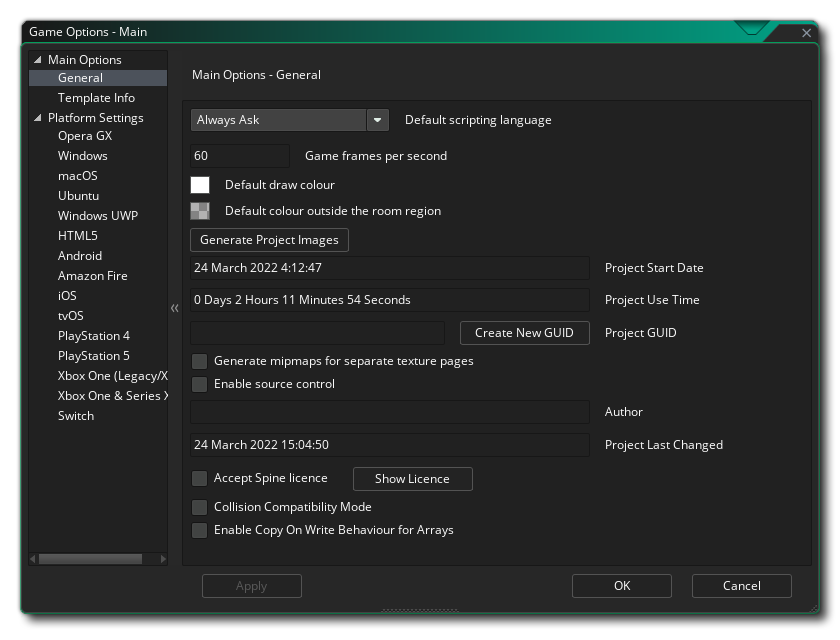
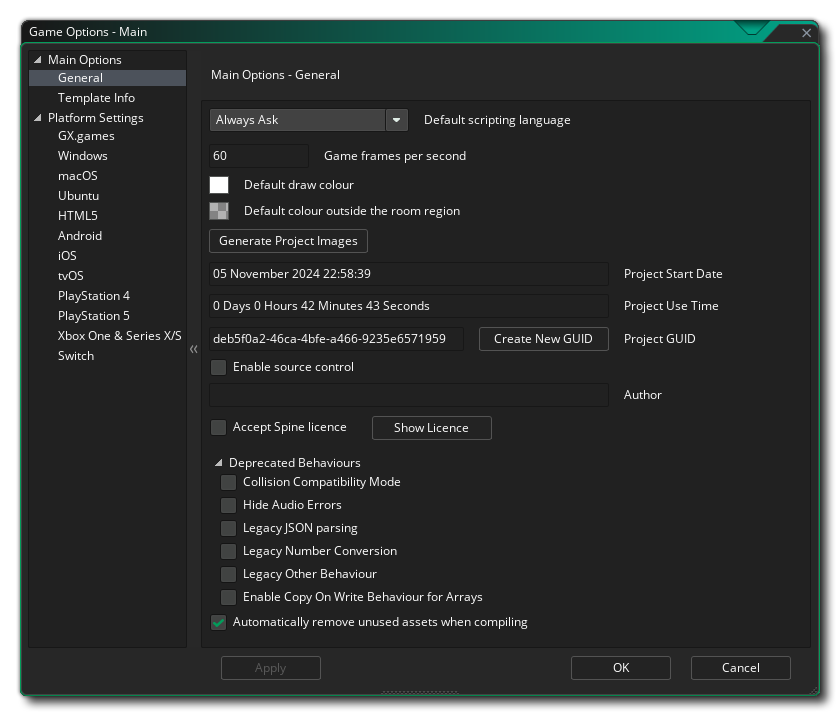
docs(feature): Remove the now redundant "Generate mipmaps for separate texture pages" Game Option YoYoGames/GameMaker-Bugs#7045
* Game Options page: updated the screenshot and removed the setting
* Mipmapping page: removed the reference to the setting in the first paragraph
* Texture Groups page: removed the info on the setting under "Generate Mipmaps"

diff --git a/Manual/contents/Settings/Texture_Groups.htm b/Manual/contents/Settings/Texture_Groups.htm
@@ -35,7 +35,7 @@
   <p>Even though the assets are shown in the list as being separate, all sprites, tile sets and fonts will be added to the same texture page, as long as there is room on that texture page. If the texture page is full, <span data-keyref="GameMaker Name">GameMaker</span> adds the remaining assets to another texture page (or pages). So by default you cannot get an individual page for each asset type. The only exception to this rule is when you flag a sprite asset as being for a &quot;<strong>Separate Texture Page</strong>&quot;, in which case it will be given its own individual texture page (see the section on &quot;Texture Settings&quot; in <a data-xref="{title}" href="../The_Asset_Editors/Sprites.htm">The Sprite Editor</a> for more details).</p>
   <h2>Texture Group vs. Texture Page</h2>
   <p>A single <strong>texture group</strong> can have multiple <strong>texture pages</strong> -- they are not equivalent.</p>
-  <p>If your game has a lot of unique graphics for each level, then you may define a single texture <em>group </em>for each of the levels, but the group&#39;s graphics may require two or more texture <em>pages</em>. This depends on whether the selected texture page size (in the <a href="Game_Options.htm">Game Options</a> for your target) is able to fit all the graphics within a texture group.</p>
+  <p>If your game has a lot of unique graphics for each level, then you may define a single texture <em>group </em>for each of the levels, but the group&#39;s graphics may require two or more texture <em>pages</em>. This depends on whether the selected texture page size (in the <a data-xref="{title}" href="Game_Options.htm">Game Options</a> for your target) is able to fit all the graphics within a texture group.</p>
   <p>See: <a data-xref="{title}" href="Texture_Information/Texture_Pages.htm">Texture Pages</a></p>
   <h2>Texture Compression</h2>
   <p>The textures in a texture group are compressed using the format set under <strong>Texture Group Format</strong>. They can be decompressed before being sent to VRAM or in real time by the GPU.</p>
@@ -48,8 +48,8 @@
   <p>The <strong>group settings</strong> in the Texture Group Editor are used to determine exactly how the texture pages for a given group should be created, with the following options available:</p>
   <ul class="colour">
     <li><strong>Allow Scaling</strong> - Unflagging this will force <span data-keyref="GameMaker Name">GameMaker</span> to not scale the texture group under any circumstances. This can be useful, especially when dealing with universal apps, as it allows you to put specific resources like fonts in a group of its own to be used when the app is run on a specific device. For example, fonts can look great on a retina display, but when they are scaled down to draw on a normal display they can look terrible so you can assign them to a special non-scaling group - if developing for the iPhone, you may wish to have this checked, as apps have been rejected due to the images being blurred by texture scaling. This is flagged as <em>on </em>by default.</li>
-    <li><strong>Automatically Crop</strong> - When you add images into <span data-keyref="GameMaker Name">GameMaker</span>, if they have any &quot;space&quot; around them (i.e. 100% transparency) this is automatically cropped when it is added into the texture page and &quot;Automatically Crop&quot; is flagged. However, if, for example, you are using the image as a non-repeating texture for primitives or anything similar, this means that the UV coordinates for texture mapping are not going to be correctly represented. In these cases you can un-flag this option and the sprite will be added to the texture page &quot;as is&quot;, maintaining any transparencies that it may have around the edges. This is flagged as <em>on </em>by default.</li>
-    <li><strong>Generate Mipmaps</strong> - Flagging this option (it is off by default) will tell <span data-keyref="GameMaker Name">GameMaker</span> that the original texture page is to be scaled and filtered into multiple resolutions within the texture file. This is normally <em>off</em>, but if you are using cameras to zoom in or out on large areas of the game room, or you are working with a 3D game, then you may want to enable this and then use the <a href="../GameMaker_Language/GML_Reference/Drawing/Mipmapping/Mipmapping.htm">Mipmapping Functions</a> to adjust how the game deals with the different mipmap levels. When you flag this checkbox the &quot;Border Size&quot; value will be forced to 8. This is because, when using mipmaps, you need larger borders between images on the texture pages otherwise they start bleeding together at higher mip levels. The default value of 8 will allow the image to be reduced to about a sixteenth of its original size before the sub-images start bleeding together. Note that if you are using the &quot;<strong>Separate Texture Page</strong>&quot; option for sprites, then you do not need to go through each texture here and flag it to generate mipmaps, but instead you can go to the <a href="Game_Options.htm">General Game Options</a> and flag the option &quot;<strong>Generate mipmaps for separate texture pages</strong>&quot;.<br />
+    <li><strong>Automatically Crop</strong> - When you add images into <span data-keyref="GameMaker Name">GameMaker</span>, if they have any &quot;space&quot; around them (i.e. 100% transparency) this is automatically cropped when it is added into the texture page and <strong>Automatically Crop</strong> is flagged. However, if, for example, you are using the image as a non-repeating texture for primitives or anything similar, this means that the UV coordinates for texture mapping are not going to be correctly represented. In these cases you can un-flag this option and the sprite will be added to the texture page &quot;as is&quot;, maintaining any transparencies that it may have around the edges. This is flagged as <em>on </em>by default.</li>
+    <li><strong>Generate Mipmaps</strong> - Flagging this option (it is off by default) will tell <span data-keyref="GameMaker Name">GameMaker</span> that the original texture page is to be scaled and filtered into multiple resolutions within the texture file. This is normally <em>off</em>, but if you are using cameras to zoom in or out on large areas of the game room, or you are working with a 3D game, then you may want to enable this and then use the <a href="../GameMaker_Language/GML_Reference/Drawing/Mipmapping/Mipmapping.htm">Mipmapping Functions</a> to adjust how the game deals with the different mipmap levels. When you flag this checkbox the <strong>Border Size</strong> value will be forced to 8. This is because, when using mipmaps, you need larger borders between images on the texture pages otherwise they start bleeding together at higher mip levels. The default value of 8 will allow the image to be reduced to about a sixteenth of its original size before the sub-images start bleeding together.<br />
       <br />
       See <a data-xref="{title}" href="../GameMaker_Language/GML_Reference/Drawing/Mipmapping/Mipmapping.htm">Mipmapping</a> for more information on how this option and the border size option are used when it is enabled.
     </li>

diff --git a/Manual/contents/GameMaker_Language/GML_Reference/Drawing/Mipmapping/Mipmapping.htm b/Manual/contents/GameMaker_Language/GML_Reference/Drawing/Mipmapping/Mipmapping.htm
@@ -15,8 +15,8 @@
 <body>
   <!--<div class="body-scroll" style="top: 150px;">-->
   <h1><span data-field="title" data-format="default">Mipmapping</span></h1>
-  <p>This section contains all the functions related to using the <a href="https://en.wikipedia.org/wiki/Mipmap" target="_blank">mipmapping</a> functions. Before using these functions you should have enabled mipmapping for the required texture pages in the <a href="../../../../Settings/Texture_Groups.htm">Texture Group Editor</a> and/or enabled it for sprites that use separate texture pages from the <a href="../../../../Settings/Game_Options.htm">General Game Options</a>, and then at runtime enable mipmapping <a href="gpu_set_tex_mip_enable.htm">using this function</a>.</p>
-  <p>Mipmapping generates lower resolution textures for drawing at appropriate distance levels. There will be multiple mipmap &quot;levels&quot;, where 0 is the original texture, 1 is the half the size of 0, 2 is half the size of 1, and so on (you can control the <a href="gpu_set_tex_min_mip.htm">minimum</a> and <a href="gpu_set_tex_max_mip.htm">maximum</a> mipmap levels used). For each subsequent mipmap level, a 2x2 block from the previous mipmap level is sampled (i.e. 4 pixels) to create one pixel, resulting in a texture that is half the size.</p>
+  <p>This section contains all the functions related to using the <a href="https://en.wikipedia.org/wiki/Mipmap" target="_blank">mipmapping</a> functions. Before using these functions you should have enabled mipmapping for the required texture pages in the <a href="../../../../Settings/Texture_Groups.htm">Texture Group Editor</a> and then at runtime enable mipmapping using <span class="inline3_func"><a data-xref="{title}" href="gpu_set_tex_mip_enable.htm">gpu_set_tex_mip_enable</a></span>.</p>
+  <p>Mipmapping generates lower resolution textures for drawing at appropriate distance levels. There will be multiple mipmap &quot;levels&quot;, where 0 is the original texture, 1 is half the size of 0, 2 is half the size of 1, and so on (you can control the <a href="gpu_set_tex_min_mip.htm">minimum</a> and <a href="gpu_set_tex_max_mip.htm">maximum</a> mipmap levels used). For each subsequent mipmap level, a 2x2 block from the previous mipmap level is sampled (i.e. 4 pixels) to create one pixel, resulting in a texture that is half the size.</p>
   <p>Mipmapping can cause bleeding issues if multiple sprites are close together on the texture page and pixels from both happen to be sampled into a 2x2 block. This is where the <strong>border size</strong> option for a Texture Group comes into play as it creates a gap of the given size between each sprite on a texture page. Since a border is added around each individual sprite, a border size of 8 allows mipmaps to be scaled up to its sixteenth level without bleeding (as then the actual gap between two sprites would be 8 + 8 = 16).</p>
   <p>The image below shows the difference mipmapping can make when rendering your project:</p>
   <p><img alt="Mipmapping example" class="center" src="../../../../assets/Images/Scripting_Reference/GML/Reference/Drawing/Mipmapping_Example.png" />Once you have enabled mipmapping for the project or a texture page, you can then use the following functions to get and set values which will change how things will look in your project when run.</p>

diff --git a/Manual/contents/Settings/Game_Options.htm b/Manual/contents/Settings/Game_Options.htm
@@ -26,7 +26,6 @@
     <li><strong>Project Start Date</strong>: The date that the project was initiated.</li>
     <li><strong>Project Use Time</strong>: The length of time that has passed since you initiated the project.</li>
     <li><strong>Project GUID</strong>: This is the unique identifier that is created for each project within <span data-keyref="GameMaker Name">GameMaker</span>. If you wish to change this you can click the Create New GUID button to generate a new one.</li>
-    <li><strong>Generate mipmaps for separate texture pages</strong>: This option will have <span data-keyref="GameMaker Name">GameMaker</span> create mipmaps for those sprites that have flagged the Separate Texture Page option in the Texture settings of the Sprite Editor. Enabling mipmapping means that the original texture page for the sprite is to be scaled and filtered into multiple resolutions within the texture file. This is normally off, but if you are using views to zoom in or out on large areas of the game room, or you are working with a 3D game, then you may want to enable this and then use the Mipmapping Functions to adjust how the game deals with the different mipmap levels. Note that if you are not flagging sprites as using individual texture pages, you can still enable mipmapping on a per-texture group basis from the Texture Group Manager. This option is off by default.</li>
     <li><strong>Enable Source Control</strong>: If you wish the project to be under SCM (Source Control Management) then you need to check this. It is off by default (see here for more information on source control).</li>
     <li><strong>Author</strong>: The name of the game author (or publisher or studio).</li>
     <li><strong>Project Last Changed</strong>: This section simply shows the date/time stamp for the last time that the project was changed (this is not editable).</li>
